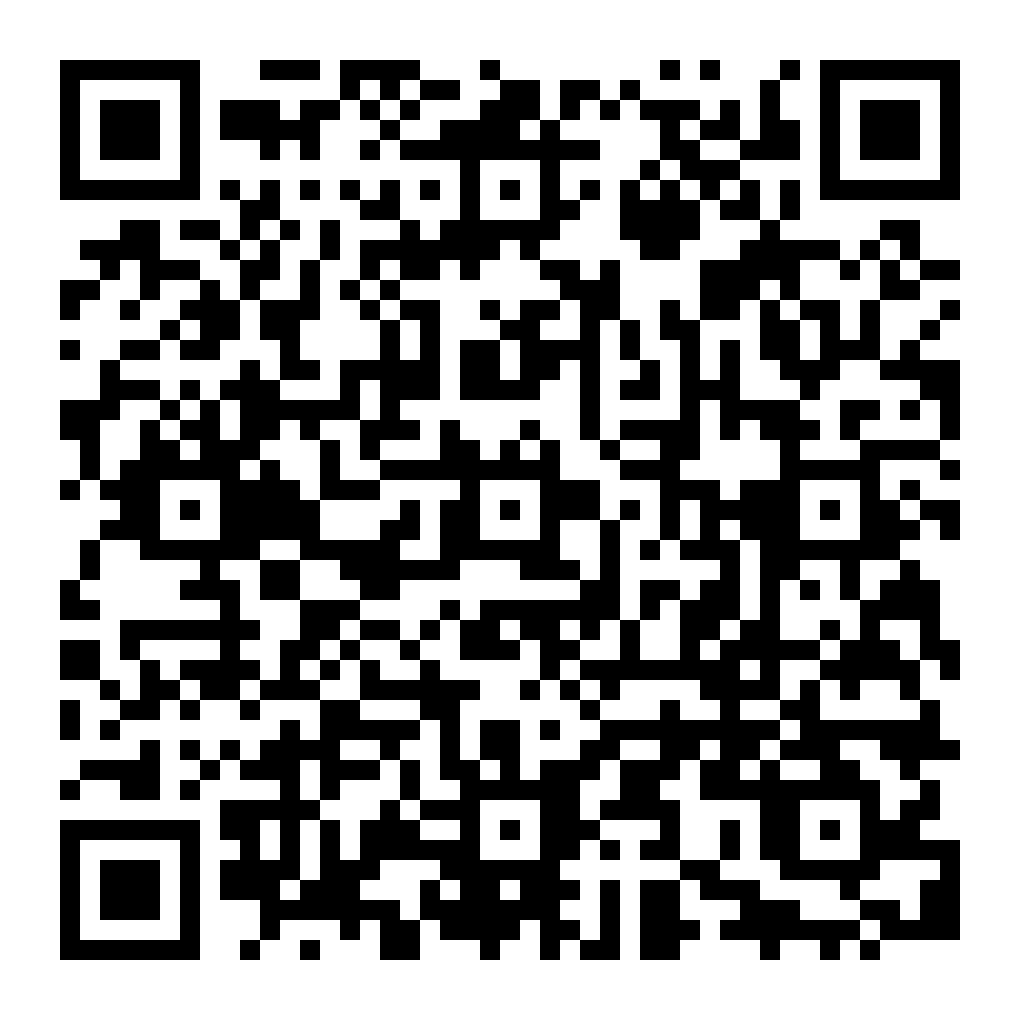
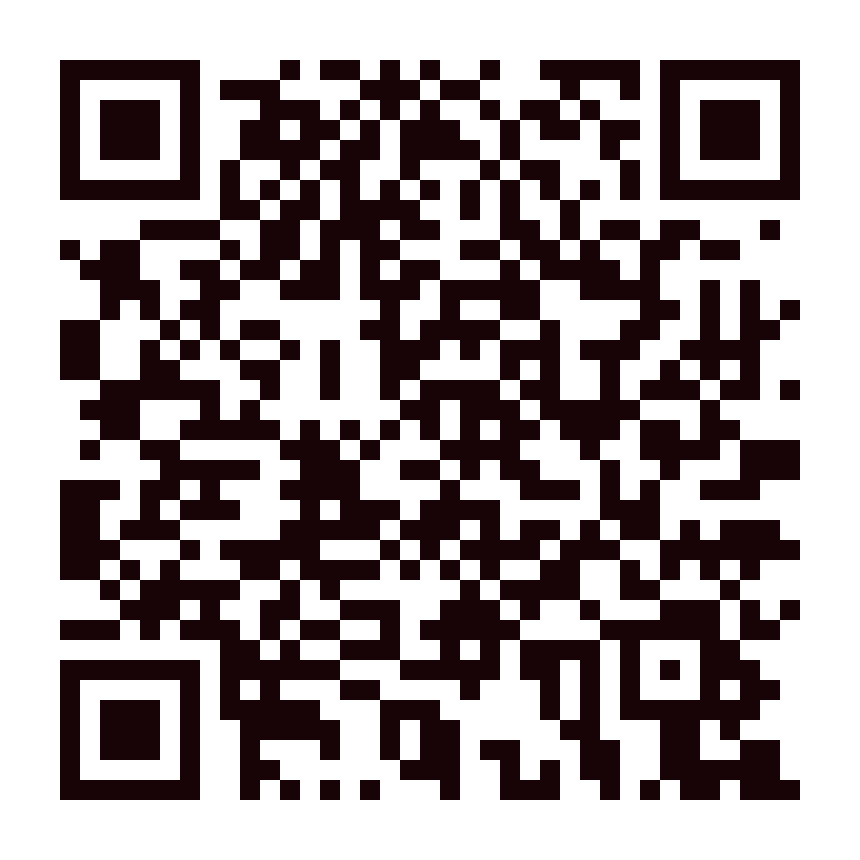
Set 28 Paarroo primary standee to Google 5-Star review only

diff --git a/28-paarroo/config.js b/28-paarroo/config.js
@@ -16,7 +16,7 @@ var RESTAURANT_CONFIG = {
     // "dual_link"   -> Single QR opens the Landing Page (both Google & Instagram buttons)
     // "google_only" -> Single QR opens Google Review directly (Static)
     // "insta_only"  -> Single QR opens Instagram directly (Static)
-    qrMode: "dual_link",
+    qrMode: "google_only",
 
     // 3. Standee Premium Text
     standeeHeading: "SCAN TO CONNECT",
